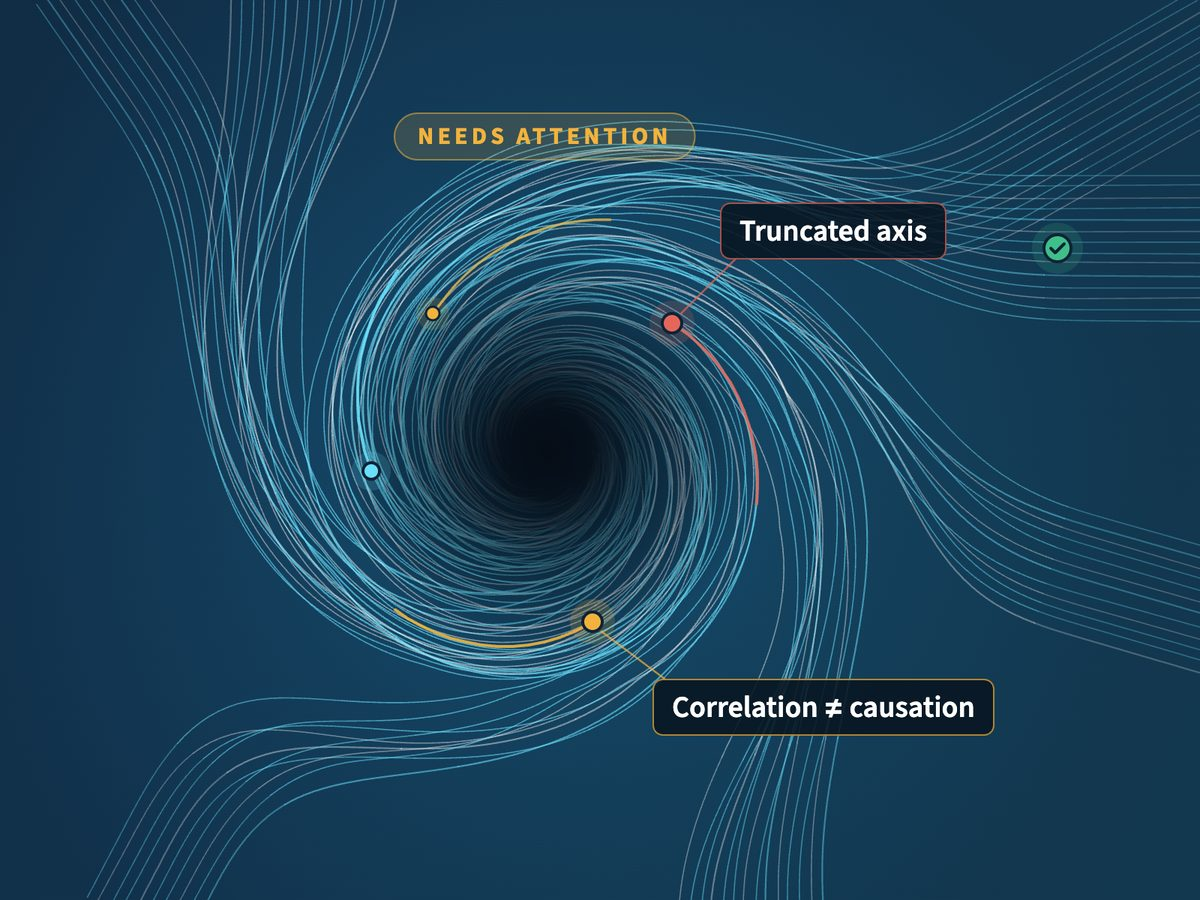
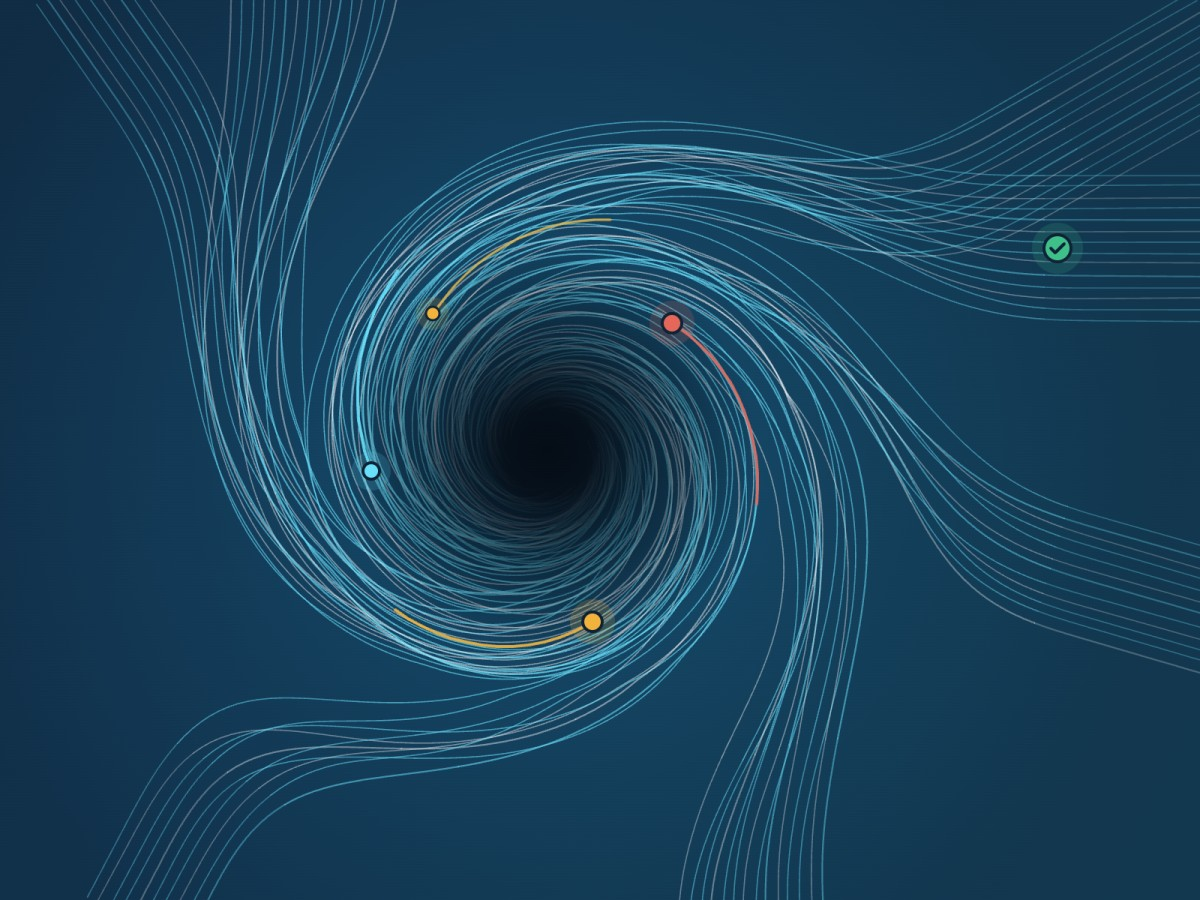
Draw the home hero's vortex tags as live text, about 20% smaller
The three callout tags were baked into vortex.jpg, so they couldn't be resized.
Swap in Ben's tag-free art (same 1200x900 crop of the Lab banner) and draw the
tags and leader lines in an SVG over it, styled in globals.css.

Claude-Session: https://claude.ai/code/session_01LYQLDF8UMjefrgUc3eJN7U

diff --git a/web/app/components/HeroVortex.tsx b/web/app/components/HeroVortex.tsx
@@ -1,0 +1,34 @@
+/**
+ * The vortex from the Lab's Pitfalls banner with its callout tags drawn on top as
+ * live text, so their size is a style change rather than an image edit. One SVG
+ * in the image's own 1200x900 space, sliced to cover the hero like object-fit.
+ */
+export function HeroVortex() {
+  return (
+    <svg
+      className="hero-vortex"
+      viewBox="0 0 1200 900"
+      preserveAspectRatio="xMidYMid slice"
+      aria-hidden="true"
+    >
+      <image href="/vortex.jpg" width="1200" height="900" />
+
+      {/* Leader lines from the marked points on the vortex to their tags. */}
+      <line className="vortex-leader" x1="678" y1="316" x2="735" y2="262" stroke="#cf6e66" />
+      <line className="vortex-leader" x1="598" y1="626" x2="665" y2="679" stroke="#c9a85a" />
+
+      <g className="vortex-tag vortex-tag-status">
+        <rect x="427" y="118" width="235" height="37" rx="18.5" />
+        <text x="544.5" y="136.5">NEEDS ATTENTION</text>
+      </g>
+      <g className="vortex-tag vortex-tag-red">
+        <rect x="721" y="218" width="178" height="44" rx="6" />
+        <text x="810" y="240">Truncated axis</text>
+      </g>
+      <g className="vortex-tag vortex-tag-gold">
+        <rect x="653" y="679" width="264" height="44" rx="6" />
+        <text x="785" y="701">Correlation ≠ causation</text>
+      </g>
+    </svg>
+  );
+}

diff --git a/web/app/globals.css b/web/app/globals.css
@@ -226,11 +226,44 @@ code {
   right: 0;
   width: 52%;
   height: 100%;
-  object-fit: cover;
-  object-position: 55% 50%;
   -webkit-mask-image: linear-gradient(to right, transparent, #000 25%);
   mask-image: linear-gradient(to right, transparent, #000 25%);
   pointer-events: none;
+}
+
+.vortex-leader {
+  stroke-width: 1.5;
+}
+
+.vortex-tag rect {
+  fill: rgba(8, 20, 32, 0.92);
+  stroke-width: 1.5;
+}
+
+.vortex-tag text {
+  font: 700 20px var(--font-body);
+  fill: #fff;
+  text-anchor: middle;
+  dominant-baseline: central;
+}
+
+.vortex-tag-red rect {
+  stroke: #cf6e66;
+}
+
+.vortex-tag-gold rect {
+  stroke: #c9a85a;
+}
+
+.vortex-tag-status rect {
+  fill: rgba(238, 211, 104, 0.16);
+  stroke: rgba(240, 186, 77, 0.55);
+}
+
+.vortex-tag-status text {
+  font-size: 15px;
+  letter-spacing: 0.2em;
+  fill: #f0ba4d;
 }
 
 .hero .wrap {

diff --git a/web/app/page.tsx b/web/app/page.tsx
@@ -1,4 +1,5 @@
 import { ruleCount } from 'datapitfalls';
+import { HeroVortex } from './components/HeroVortex';
 import { SetupTabs } from './components/SetupTabs';
 import { SignupForm } from './components/SignupForm';
 import { CodeLine } from './components/CopyButton';
@@ -30,8 +31,7 @@ export default function Home() {
   return (
     <main>
       <div className="hero">
-        {/* eslint-disable-next-line @next/next/no-img-element */}
-        <img className="hero-vortex" src="/vortex.jpg" alt="" width={1200} height={900} />
+        <HeroVortex />
         <div className="wrap">
           <span className="pill">
             From the book by Ben Jones <b>{total} pitfalls</b>
